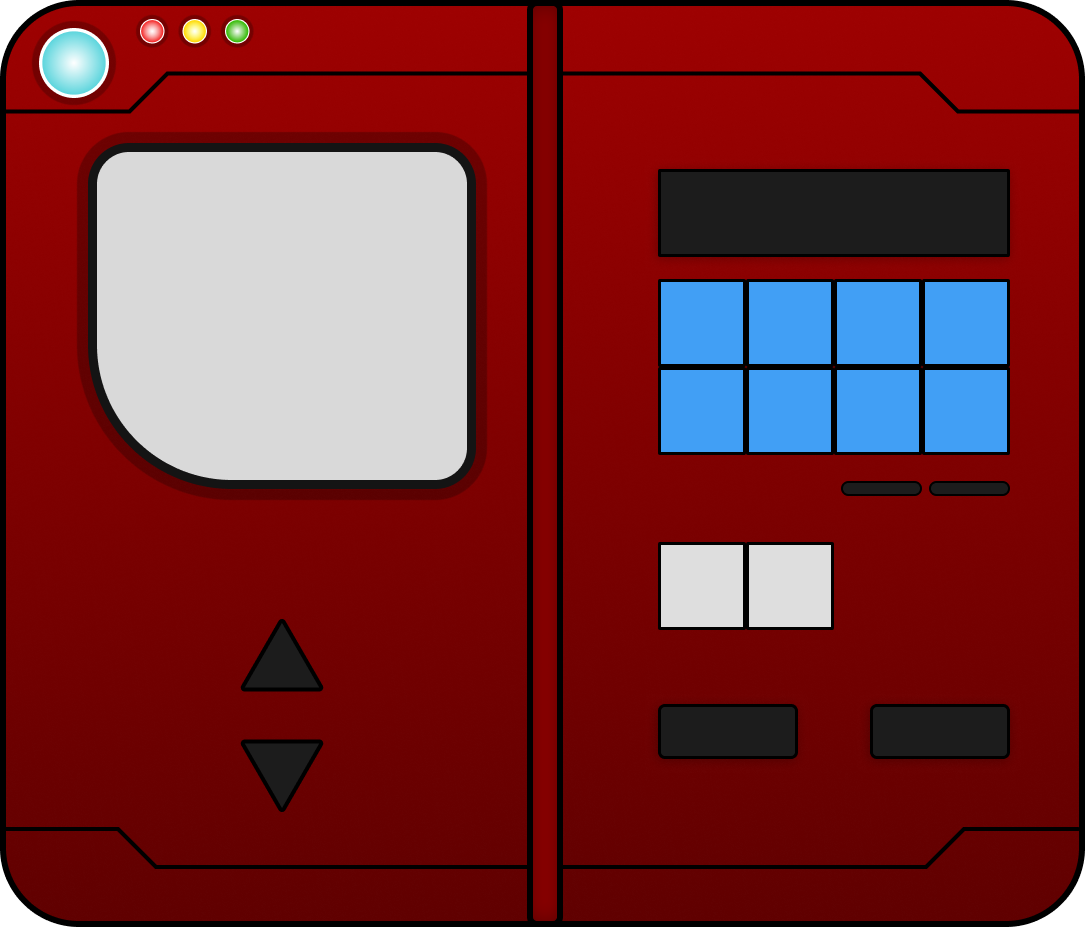
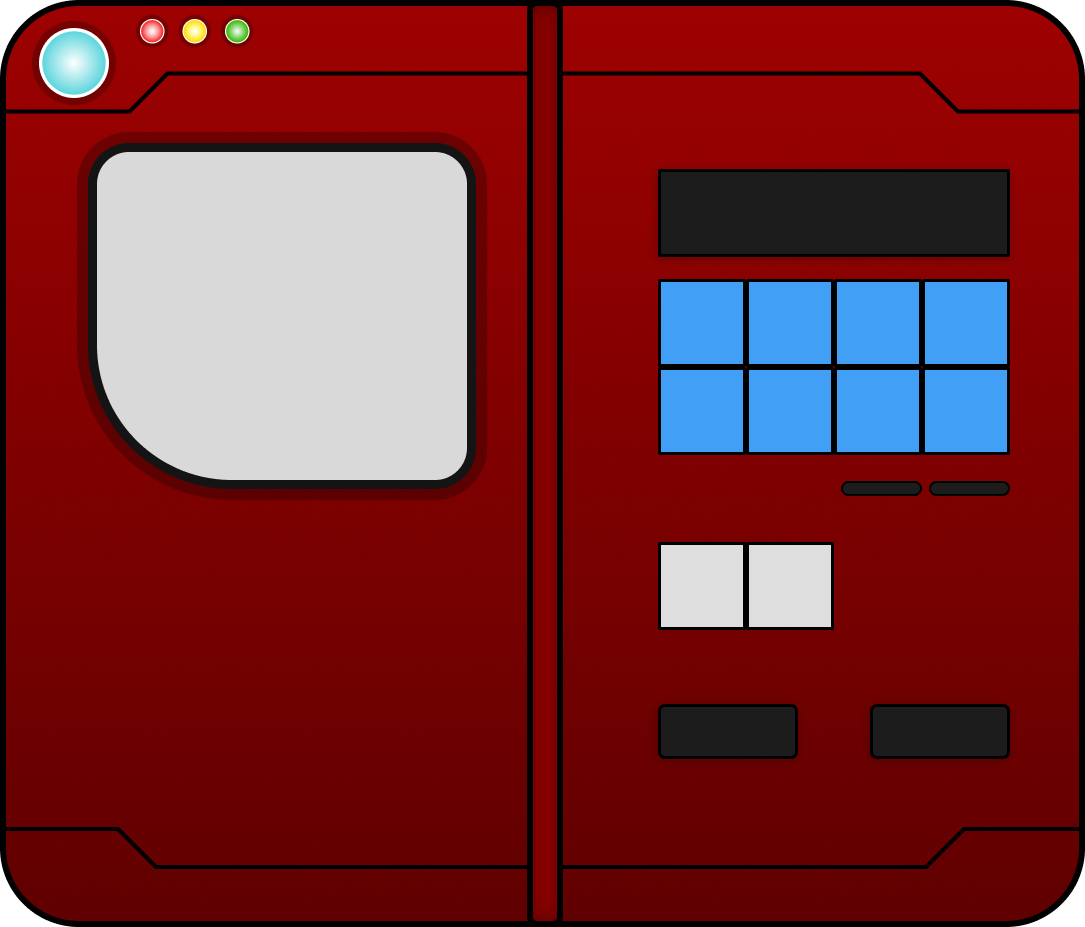
updated Pokemon.css
- added in 2 new buttons to control pokemon id number

Changed region(s): [[0.2129, 0.7853, 0.3041, 0.8759], [0.2129, 0.6645, 0.3041, 0.7551]]

diff --git a/css/pokedex.css b/css/pokedex.css
@@ -81,6 +81,22 @@ form {
     background-color: black;
 }
 
+.arrowUp {
+    /* background-color: purple; */
+    position: absolute;
+    bottom: 27.9%;
+    left: 35%;
+    cursor: pointer;
+}
+
+.arrowDown {
+    /* background-color: purple; */
+    position: absolute;
+    bottom: 16%;
+    left: 35%;
+    cursor: pointer;
+}
+
 /* ----------- width 500px to 700px-------------- */
 @media only screen and (min-width: 500px) and (max-width: 700px){
     #pokedex {
@@ -116,6 +132,21 @@ form {
         left: 20%;
         bottom: 38%;
     }
+
+    form {
+        bottom: 38%;
+        left: 22%;
+    }
+
+    .arrowUp {
+        bottom: 27.9%;
+        left: 45%;
+    }
+    
+    .arrowDown {
+        bottom: 16%;
+        left: 45%;
+    }
 }
 
 /* ----------- width 700px to 900px-------------- */
@@ -150,8 +181,18 @@ form {
     }
 
     form {
-        left: 28%;
         bottom: 38%;
+        left: 27%;
+    }
+
+    .arrowUp {
+        bottom: 27.9%;
+        left: 45%;
+    }
+    
+    .arrowDown {
+        bottom: 16%;
+        left: 45%;
     }
 }
 
@@ -187,8 +228,18 @@ form {
     }
 
     form {
-        left: 29%;
         bottom: 38%;
+        left: 30%;
+    }
+
+    .arrowUp {
+        bottom: 27.9%;
+        left: 45%;
+    }
+    
+    .arrowDown {
+        bottom: 16%;
+        left: 45%;
     }
 }
 
@@ -228,6 +279,16 @@ form {
         left: 34%;
         bottom: 38%;
     }
+
+    .arrowUp {
+        bottom: 27.9%;
+        left: 47%;
+    }
+    
+    .arrowDown {
+        bottom: 16%;
+        left: 47%;
+    }
     
 }
 
@@ -255,6 +316,16 @@ form {
         left: 17%;
         bottom: 38%;
     }
+
+    .arrowUp {
+        bottom: 27.9%;
+        left: 28%;
+    }
+    
+    .arrowDown {
+        bottom: 16%;
+        left: 28%;
+    }
     
 }
 
@@ -281,6 +352,16 @@ form {
     form {
         left: 23%;
         bottom: 38%;
+    }
+
+    .arrowUp {
+        bottom: 27.9%;
+        left: 32.5%;
+    }
+    
+    .arrowDown {
+        bottom: 16%;
+        left: 32.5%;
     }
     
 }

diff --git a/index.html b/index.html
@@ -20,8 +20,13 @@
   <body>
     <main class="container"></main>
     <div id="pokedex">
-      <img class="pokedex-large" src="./img/Pokedex-img.png" alt="A custom made pokedex" />
-      <img class="pokedex-small" src="./img/Pokedex-mobile.png" alt="A custom made pokedex" />
+      <img class="pokedex-large" src="./img/Pokedex-img.png" alt="A custom made pokedex large" />
+      <img class="pokedex-small" src="./img/Pokedex-mobile.png" alt="A custom made pokedex small" />
+
+      <div id="arrows">
+        <img class="arrowUp" src="./img/ArrowUp.png" alt="Custom arrow png for pokedex" />
+        <img class="arrowDown" src="./img/ArrowDown.png" alt="Custom arrow png for pokedex" />
+      </div>
     </div>
     <form>
       <input
@@ -31,5 +36,7 @@
       />
       <input id="submit" type="submit" value="Search for Pokemon" />
     </form>
+
+    
   </body>
 </html>
